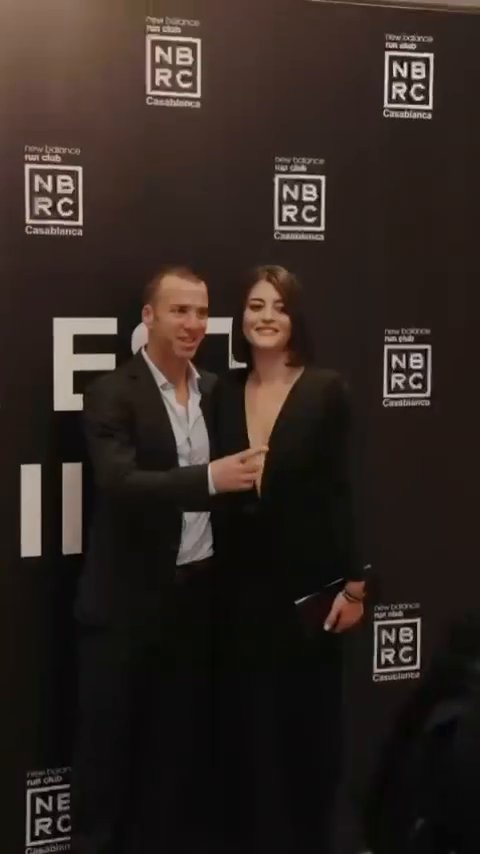
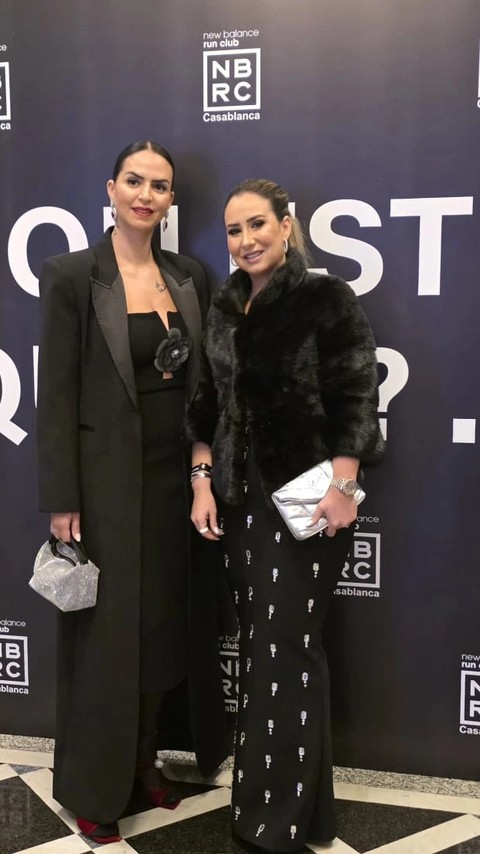
Use real event photo as video facade thumbnail
Replace homepage-video-poster.jpg with a user-supplied photo from the
NBRC step-and-repeat (two members at the gala backdrop), center-cropped
to 480x854 to exactly match the video's native aspect ratio so the
poster never letterboxes inside the post-click <video object-fit:contain>
frame. Same filename/path, so no markup or CSS changes needed.

Updated both READMEs to describe the poster as a real event photo
rather than a frame extracted from the video via PyAV.

Claude-Session: https://claude.ai/code/session_013Yxucjjn3Axqu8w1LTy1vd

diff --git a/nbrc-gala/assets/README.md b/nbrc-gala/assets/README.md
@@ -4,11 +4,12 @@
   Used in the hero (130–180px tall) and the footer (40px).
 - `homepage-video.mp4` — 480x854, 44s, H.264 + AAC. Played inline in section 01
   behind a click-to-play facade.
-- `homepage-video-poster.jpg` — a frame extracted from the video itself
-  (`~1.5s` in, via PyAV). Doubles as the facade's thumbnail image before the
-  viewer presses play, and as the `<video poster>` shown while it buffers
-  after the click — so there is never a blank or grey box, only ever this
-  still or the playing video.
+- `homepage-video-poster.jpg` — a real event photo (480x854, centre-cropped
+  to match the video's own dimensions exactly, so the post-click `<video>`
+  frame never letterboxes it). Doubles as the facade's thumbnail image
+  before the viewer presses play, and as the `<video poster>` shown while
+  it buffers after the click — so there is never a blank or grey box, only
+  ever this still or the playing video.
 - `planet-sport-logo.png` — Planet Sport logo, 863x296, transparent
   background. Used in its own "Organisé par" section right after the final
   CTA panel, sized 40-56px tall (not a quiet footer credit).

diff --git a/nbrc-gala/README.md b/nbrc-gala/README.md
@@ -58,10 +58,10 @@ verified: no mp4 request before the click. Self-hosted, so no third party is
 involved at all. Playback is inline (`playsinline`), and if the browser blocks
 autoplay with sound the script retries muted so the click always plays.
 
-The facade itself is `assets/homepage-video-poster.jpg`, a frame pulled from
-the video, not an abstract placeholder — it doubles as the injected
-`<video>`'s `poster`, so playback never shows a grey or blank box, before or
-after the click.
+The facade itself is `assets/homepage-video-poster.jpg`, a real event photo,
+not an abstract placeholder — it doubles as the injected `<video>`'s
+`poster`, so playback never shows a grey or blank box, before or after the
+click.
 
 ## Typography
 
